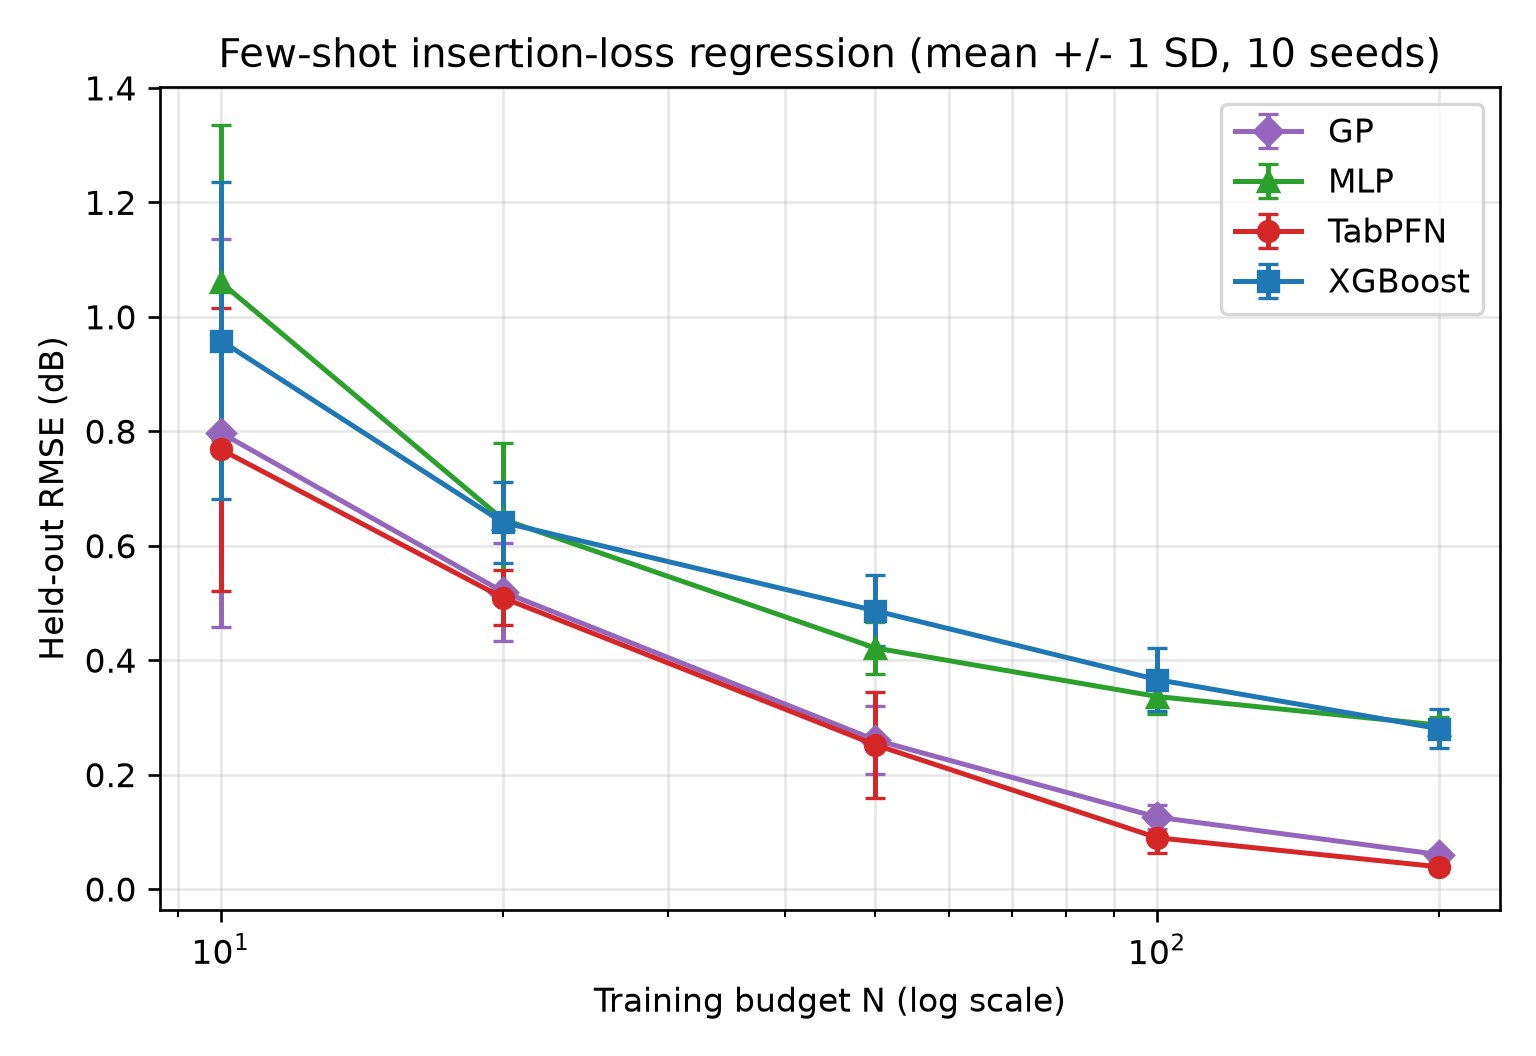
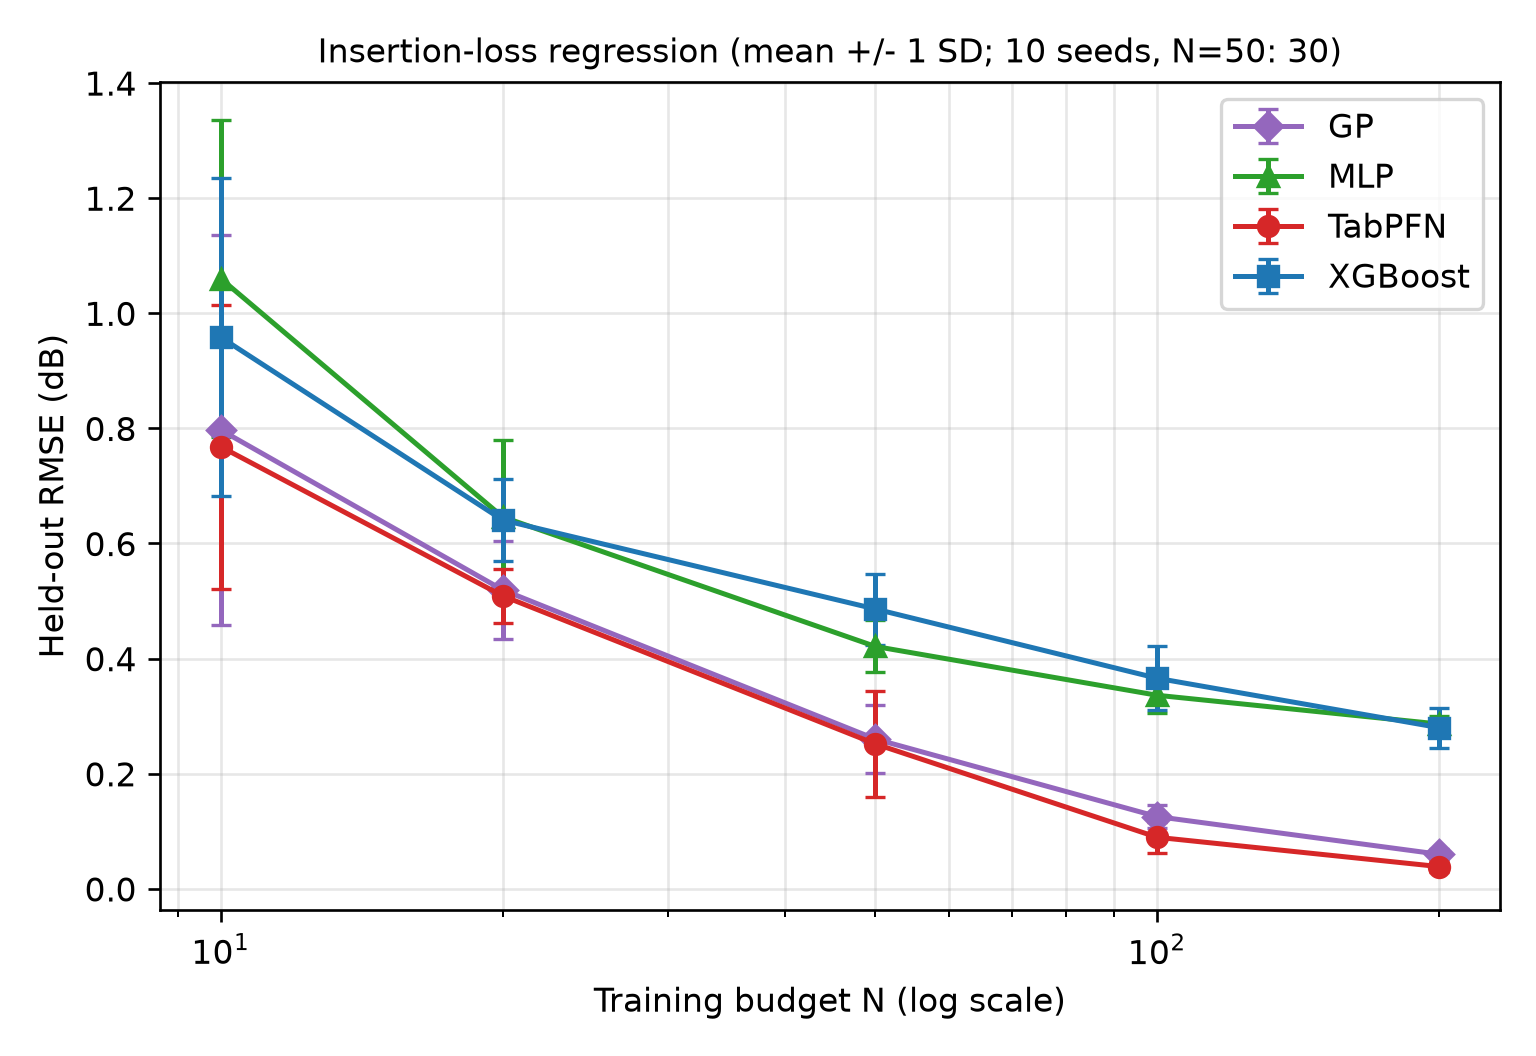
Correct seed count in experiment plot

diff --git a/03_plot_results.py b/03_plot_results.py
@@ -59,7 +59,7 @@ def main():
     agg["total_time_mean_s"] = agg["fit_time_mean_s"] + agg["predict_time_mean_s"]
     agg.to_csv("results/metrics_by_budget.csv", index=False)
 
-    # Figure: mean +/- 1 SD across the ten matched training draws.
+    # Figure: mean +/- 1 SD across the matched training draws at each budget.
     fig, ax = plt.subplots(figsize=(6.4, 4.4))
     for model in agg["model"].unique():
         sub = agg[agg["model"] == model].sort_values("N")
@@ -71,7 +71,10 @@ def main():
     ax.set_xscale("log")
     ax.set_xlabel("Training budget N (log scale)")
     ax.set_ylabel("Held-out RMSE (dB)")
-    ax.set_title("Few-shot insertion-loss regression (mean +/- 1 SD, 10 seeds)")
+    ax.set_title(
+        "Insertion-loss regression (mean +/- 1 SD; 10 seeds, N=50: 30)",
+        fontsize=10,
+    )
     ax.legend()
     ax.grid(alpha=0.3, which="both")
     fig.tight_layout()

diff --git a/02_run_experiment.py b/02_run_experiment.py
@@ -1,7 +1,7 @@
 """
 Core few-shot experiment: TabPFN vs XGBoost vs MLP vs GP at training
-budgets N in {10, 20, 50, 100, 200}, each over 10 random seeds, evaluated
-on the SAME fixed 300-row held-out test set every time.
+budgets N in {10, 20, 50, 100, 200}, with 10 seeds per budget except N=50,
+which uses 30 seeds. Every run is evaluated on the same fixed test set.
 
 Requires (install once, e.g. in a Colab cell):
     pip install tabpfn xgboost scikit-learn scipy pandas
